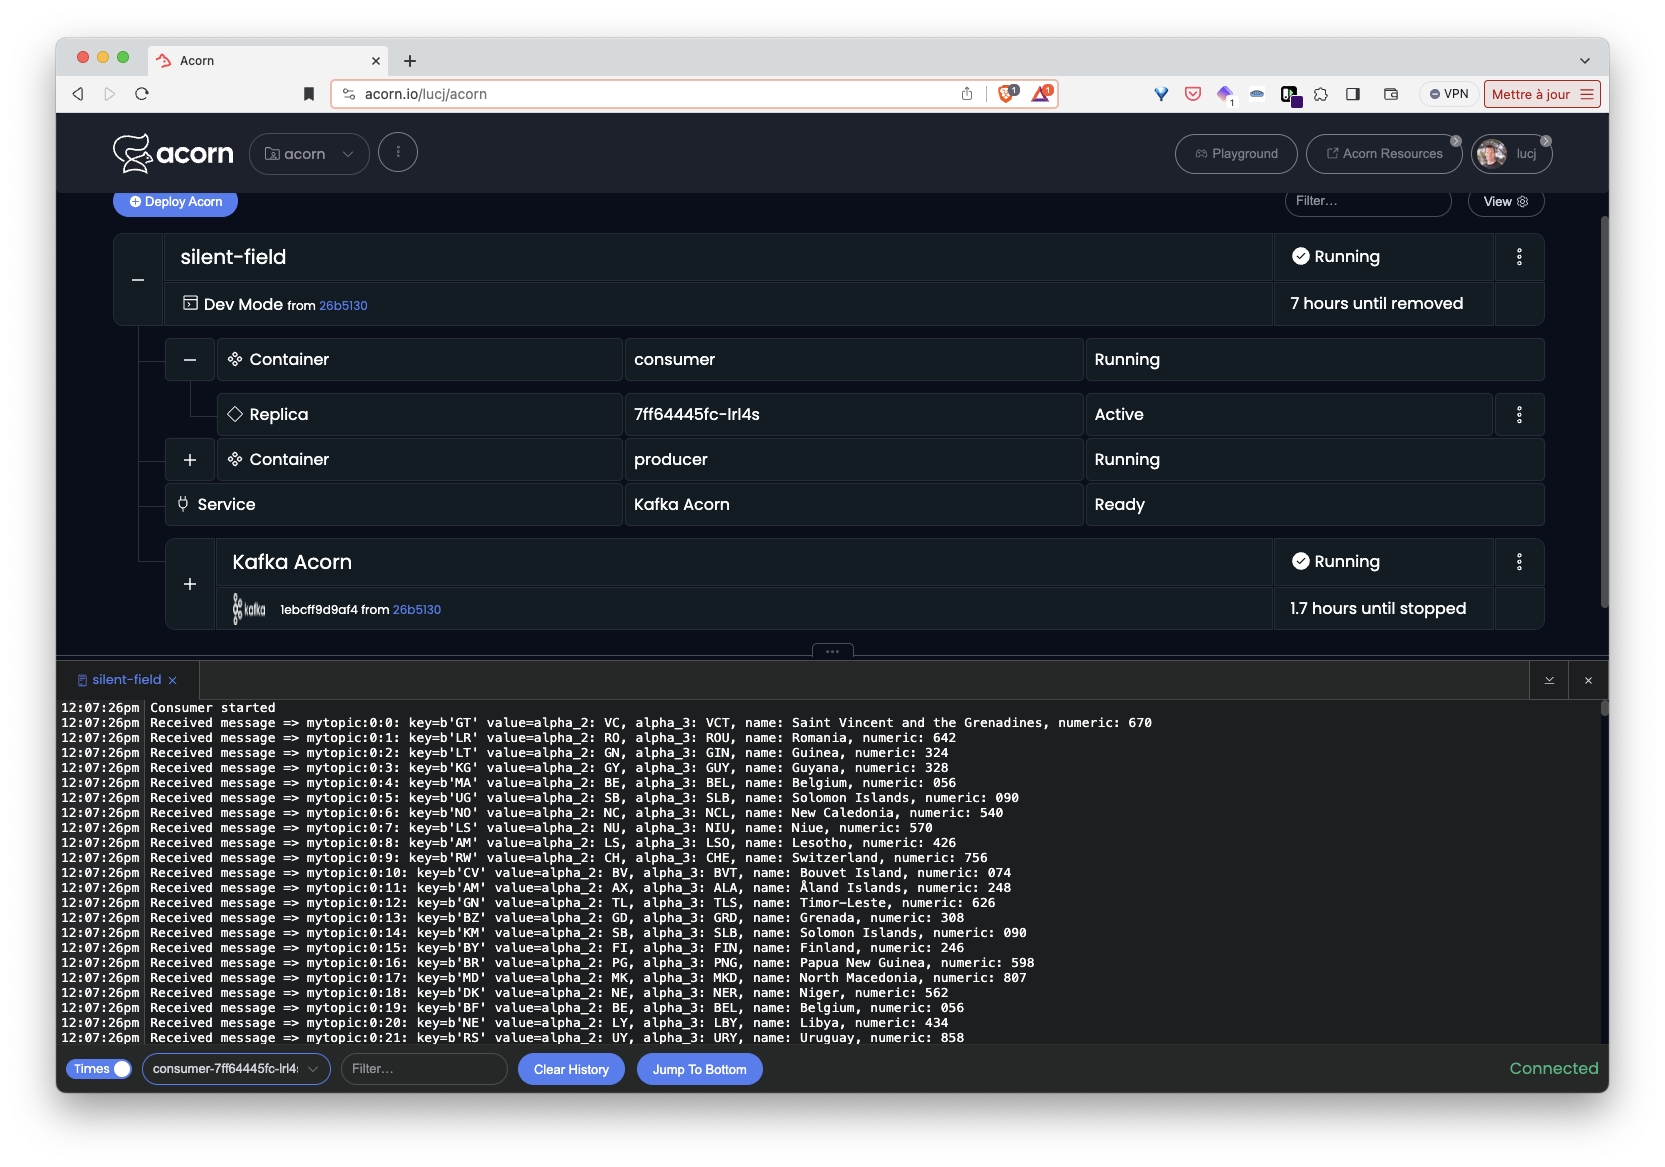
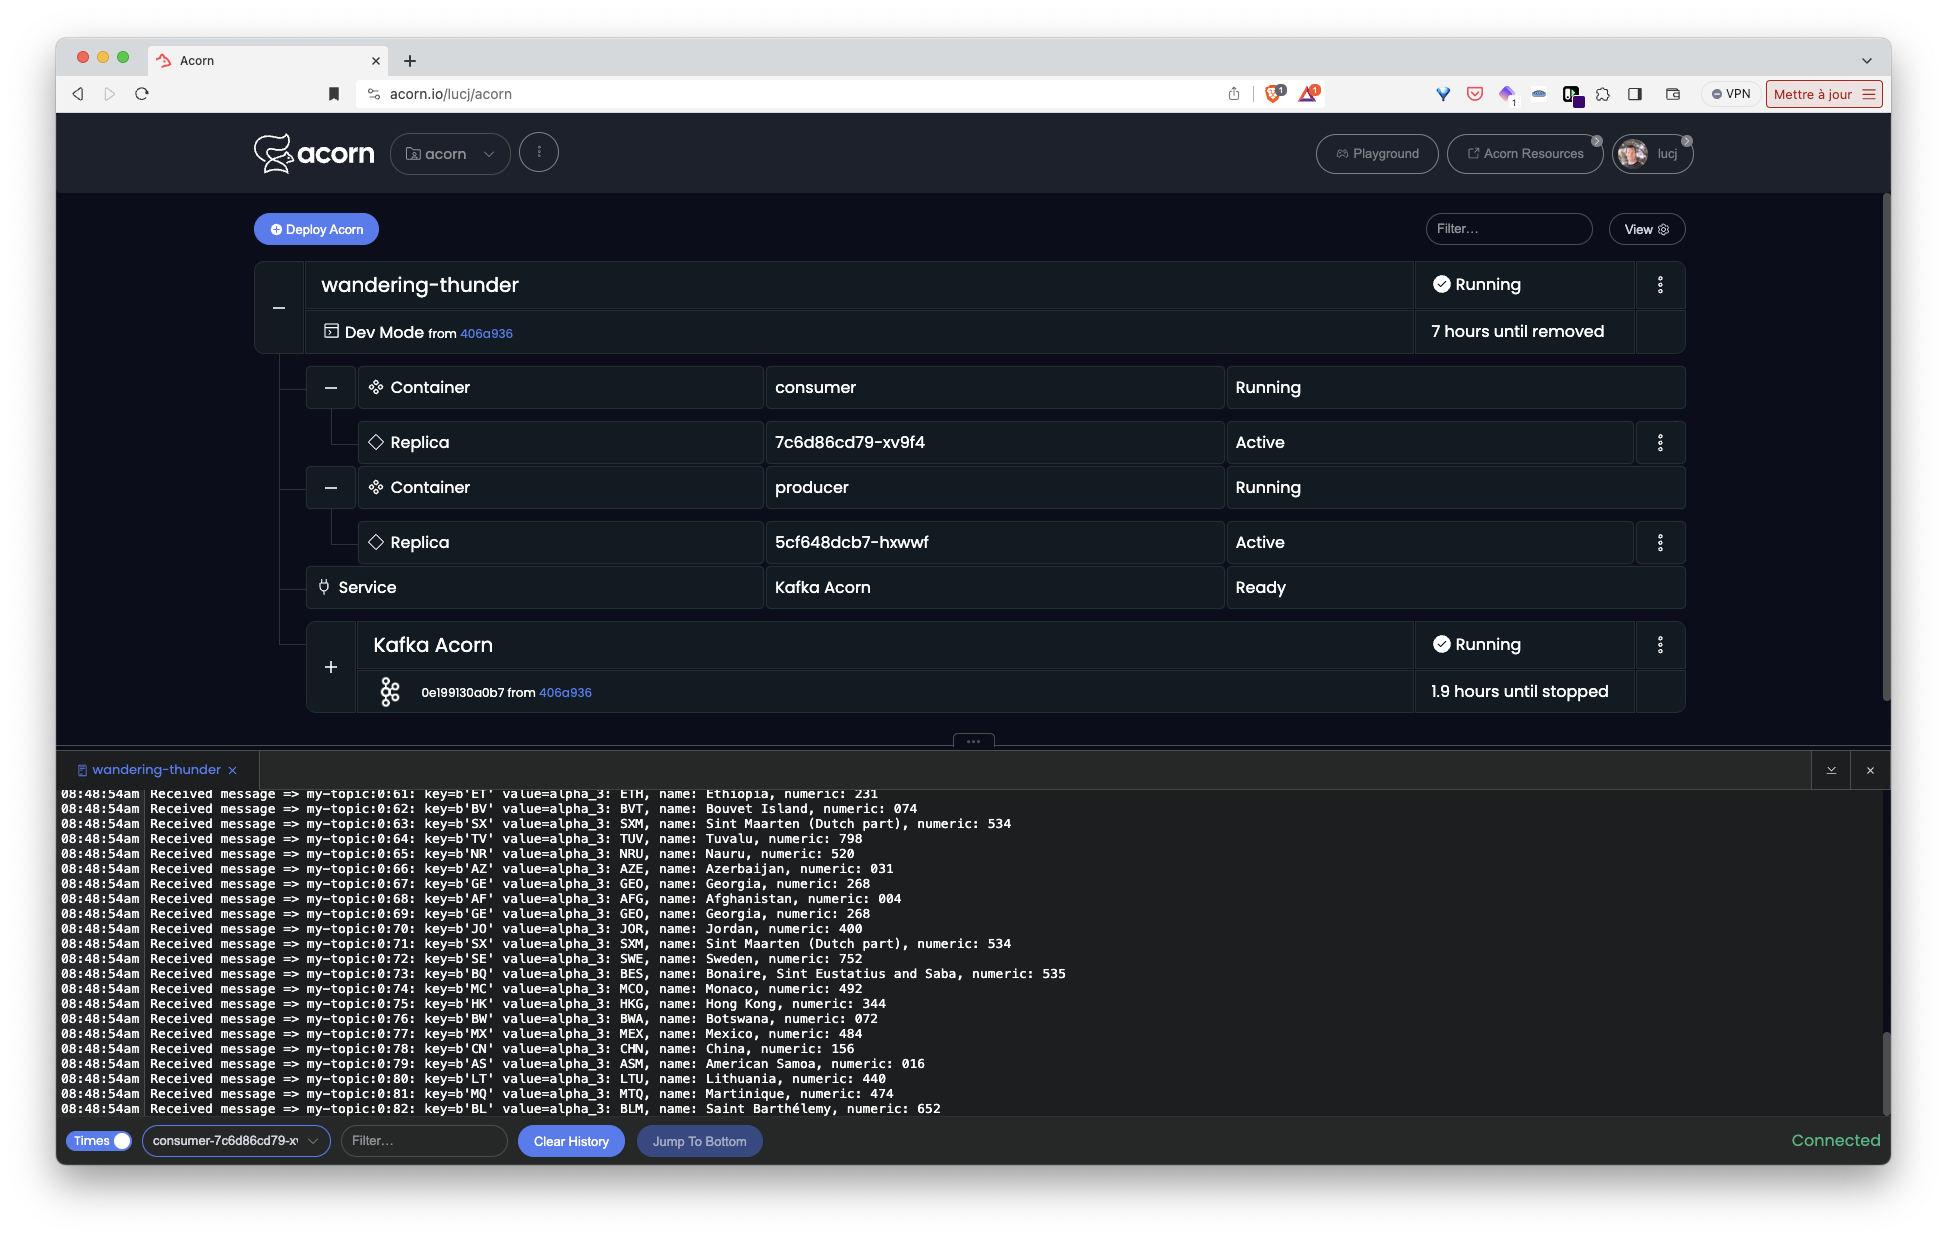
fix out of range issue (#6)
* cleanup producer a bit

* change screenshots

diff --git a/examples/producer/producer.py b/examples/producer/producer.py
@@ -1,5 +1,4 @@
 from kafka import KafkaProducer
-from faker import Faker
 import pycountry
 import random
 import time
@@ -9,26 +8,18 @@ bootstrap_servers = f"{os.environ['KAFKA_HOST']}:{os.environ['KAFKA_PORT']}"
 topic = os.environ['KAFKA_TOPIC']
 producer = KafkaProducer(bootstrap_servers=bootstrap_servers)
 
-# Set up Faker to generate country-related data
-fake = Faker()
-
+# Get total number of countries
 total_countries = len(pycountry.countries)
 
 # Generate a dummy messsage every second
-while True:
-    # Get random country code and related name
-    country_code = fake.country_code()
-    country_description = fake.country()
-    
-    # Convert to bytes
-    key = country_code.encode('utf-8')
-    value = country_description.encode('utf-8')
-        
-    random_index = random.randint(0, total_countries) 
+while True:        
+    # Get a random country
+    random_index = random.randint(0, total_countries-1) 
     country = list(pycountry.countries)[random_index]
-    print(country)
 
-    value = "alpha_2: {}, alpha_3: {}, name: {}, numeric: {}".format(country.alpha_2, country.alpha_3, country.name, country.numeric).encode('utf-8')
+    # Define key and value
+    key = country.alpha_2.encode('utf-8')
+    value = "alpha_3: {}, name: {}, numeric: {}".format(country.alpha_3, country.name, country.numeric).encode('utf-8')
 
     # Sent message
     try:
